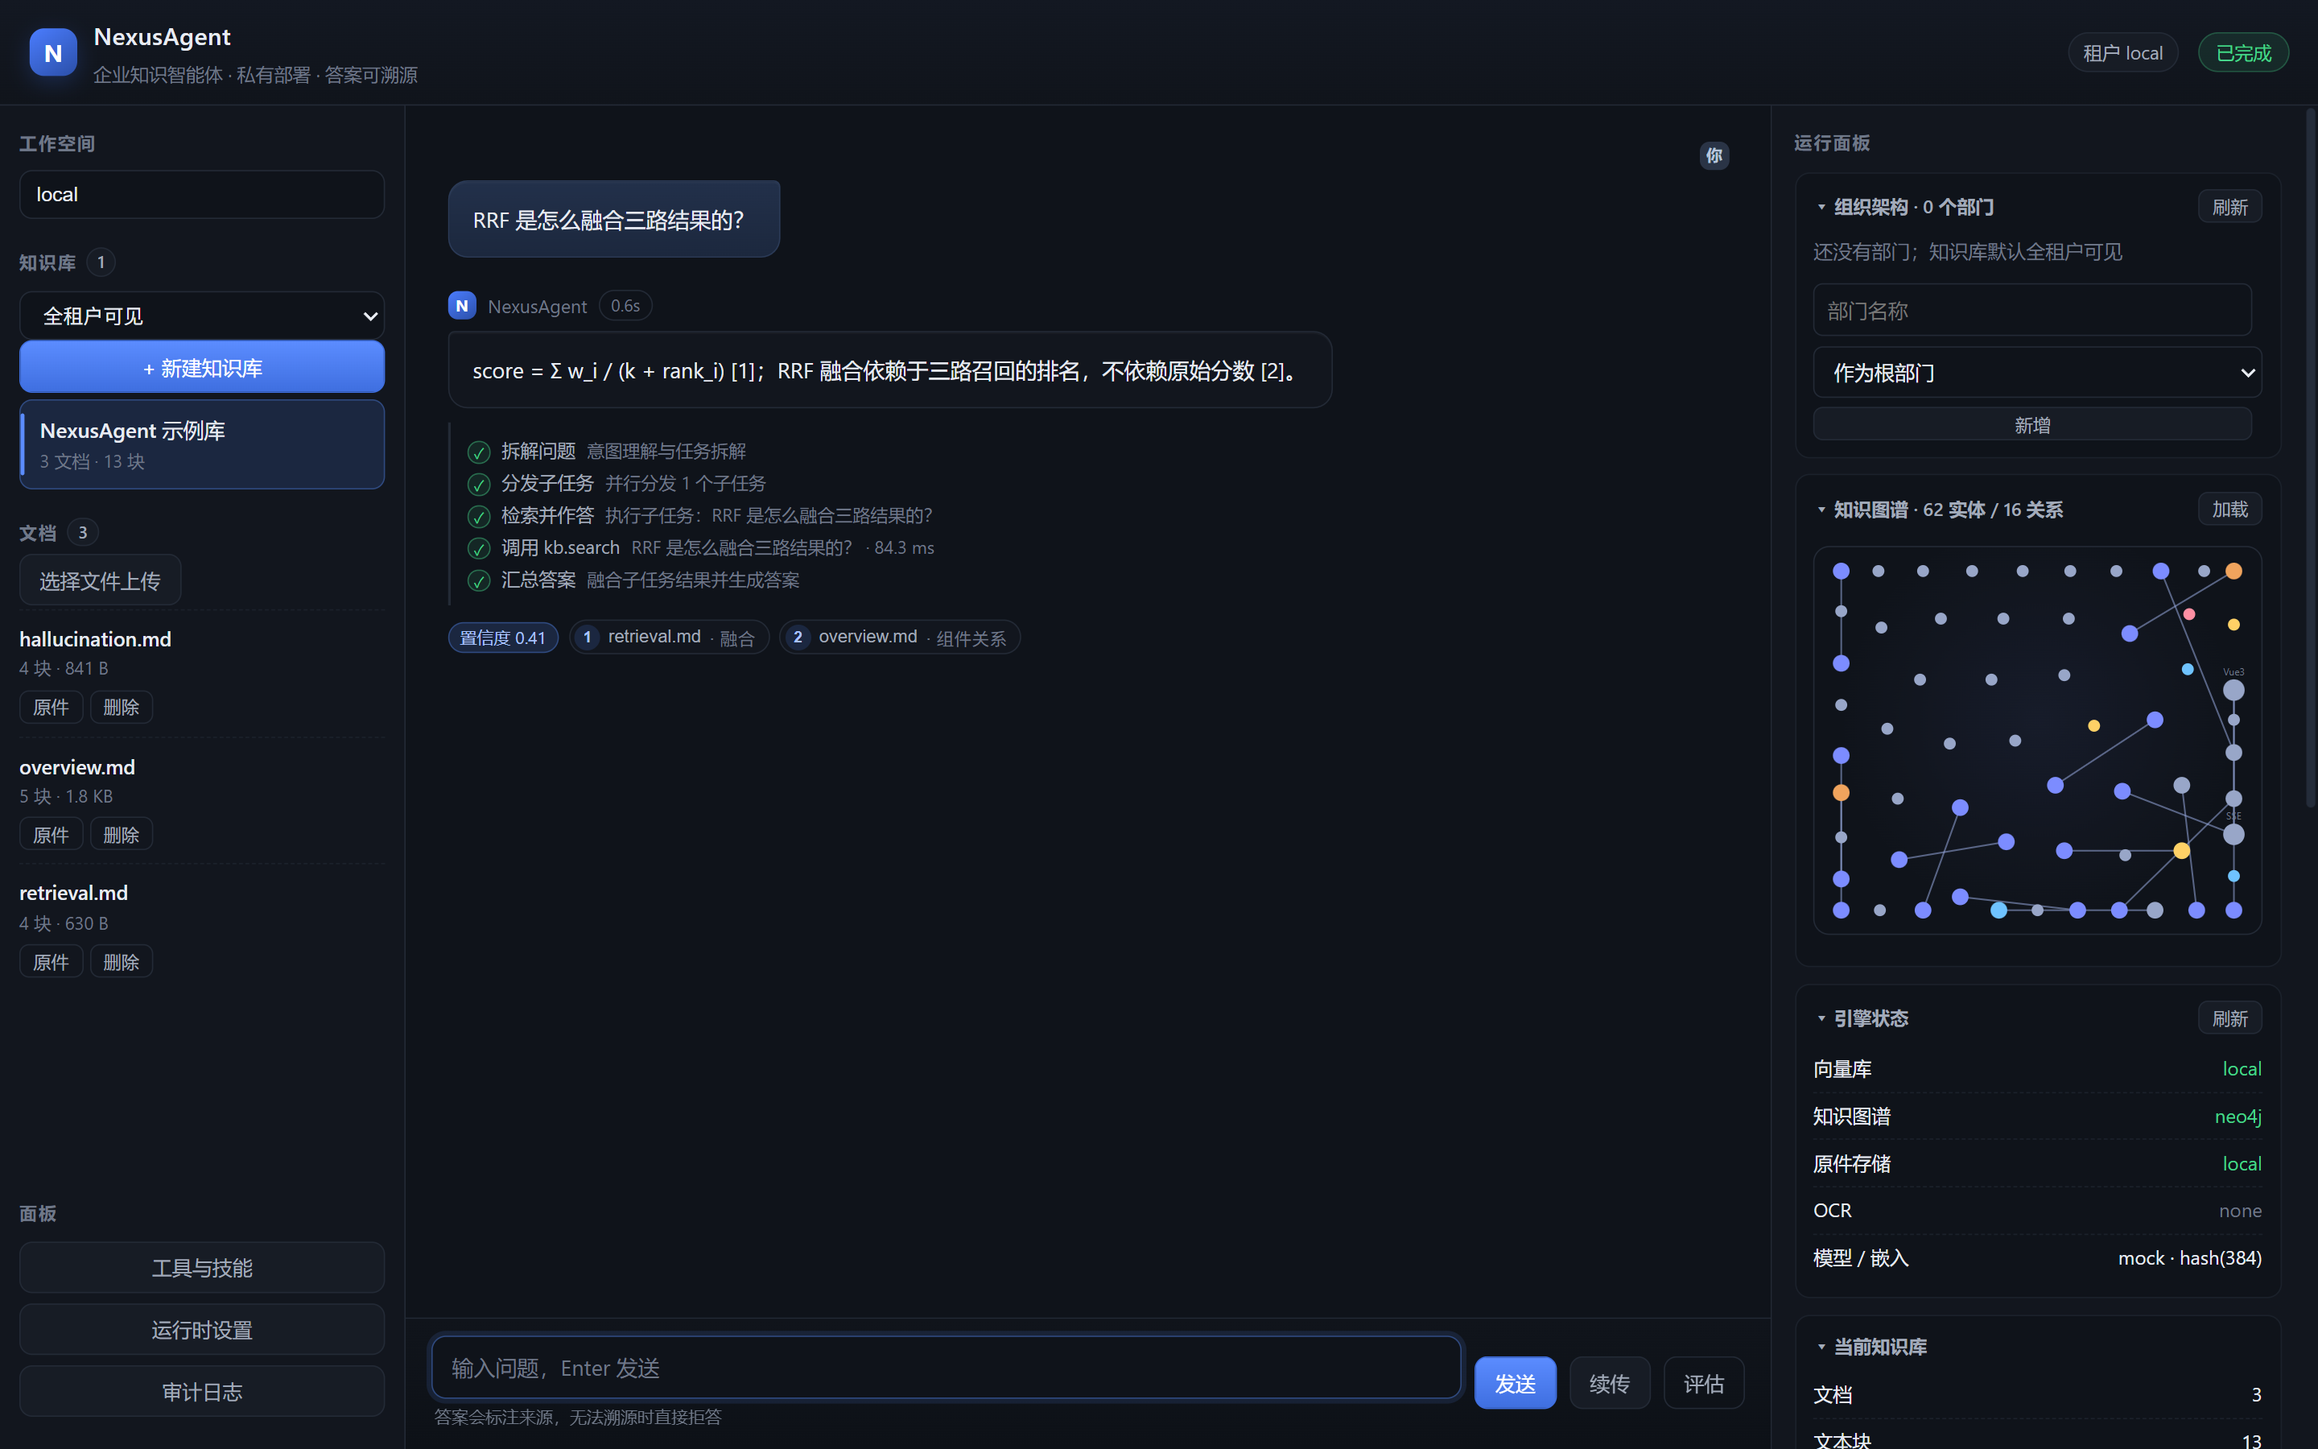
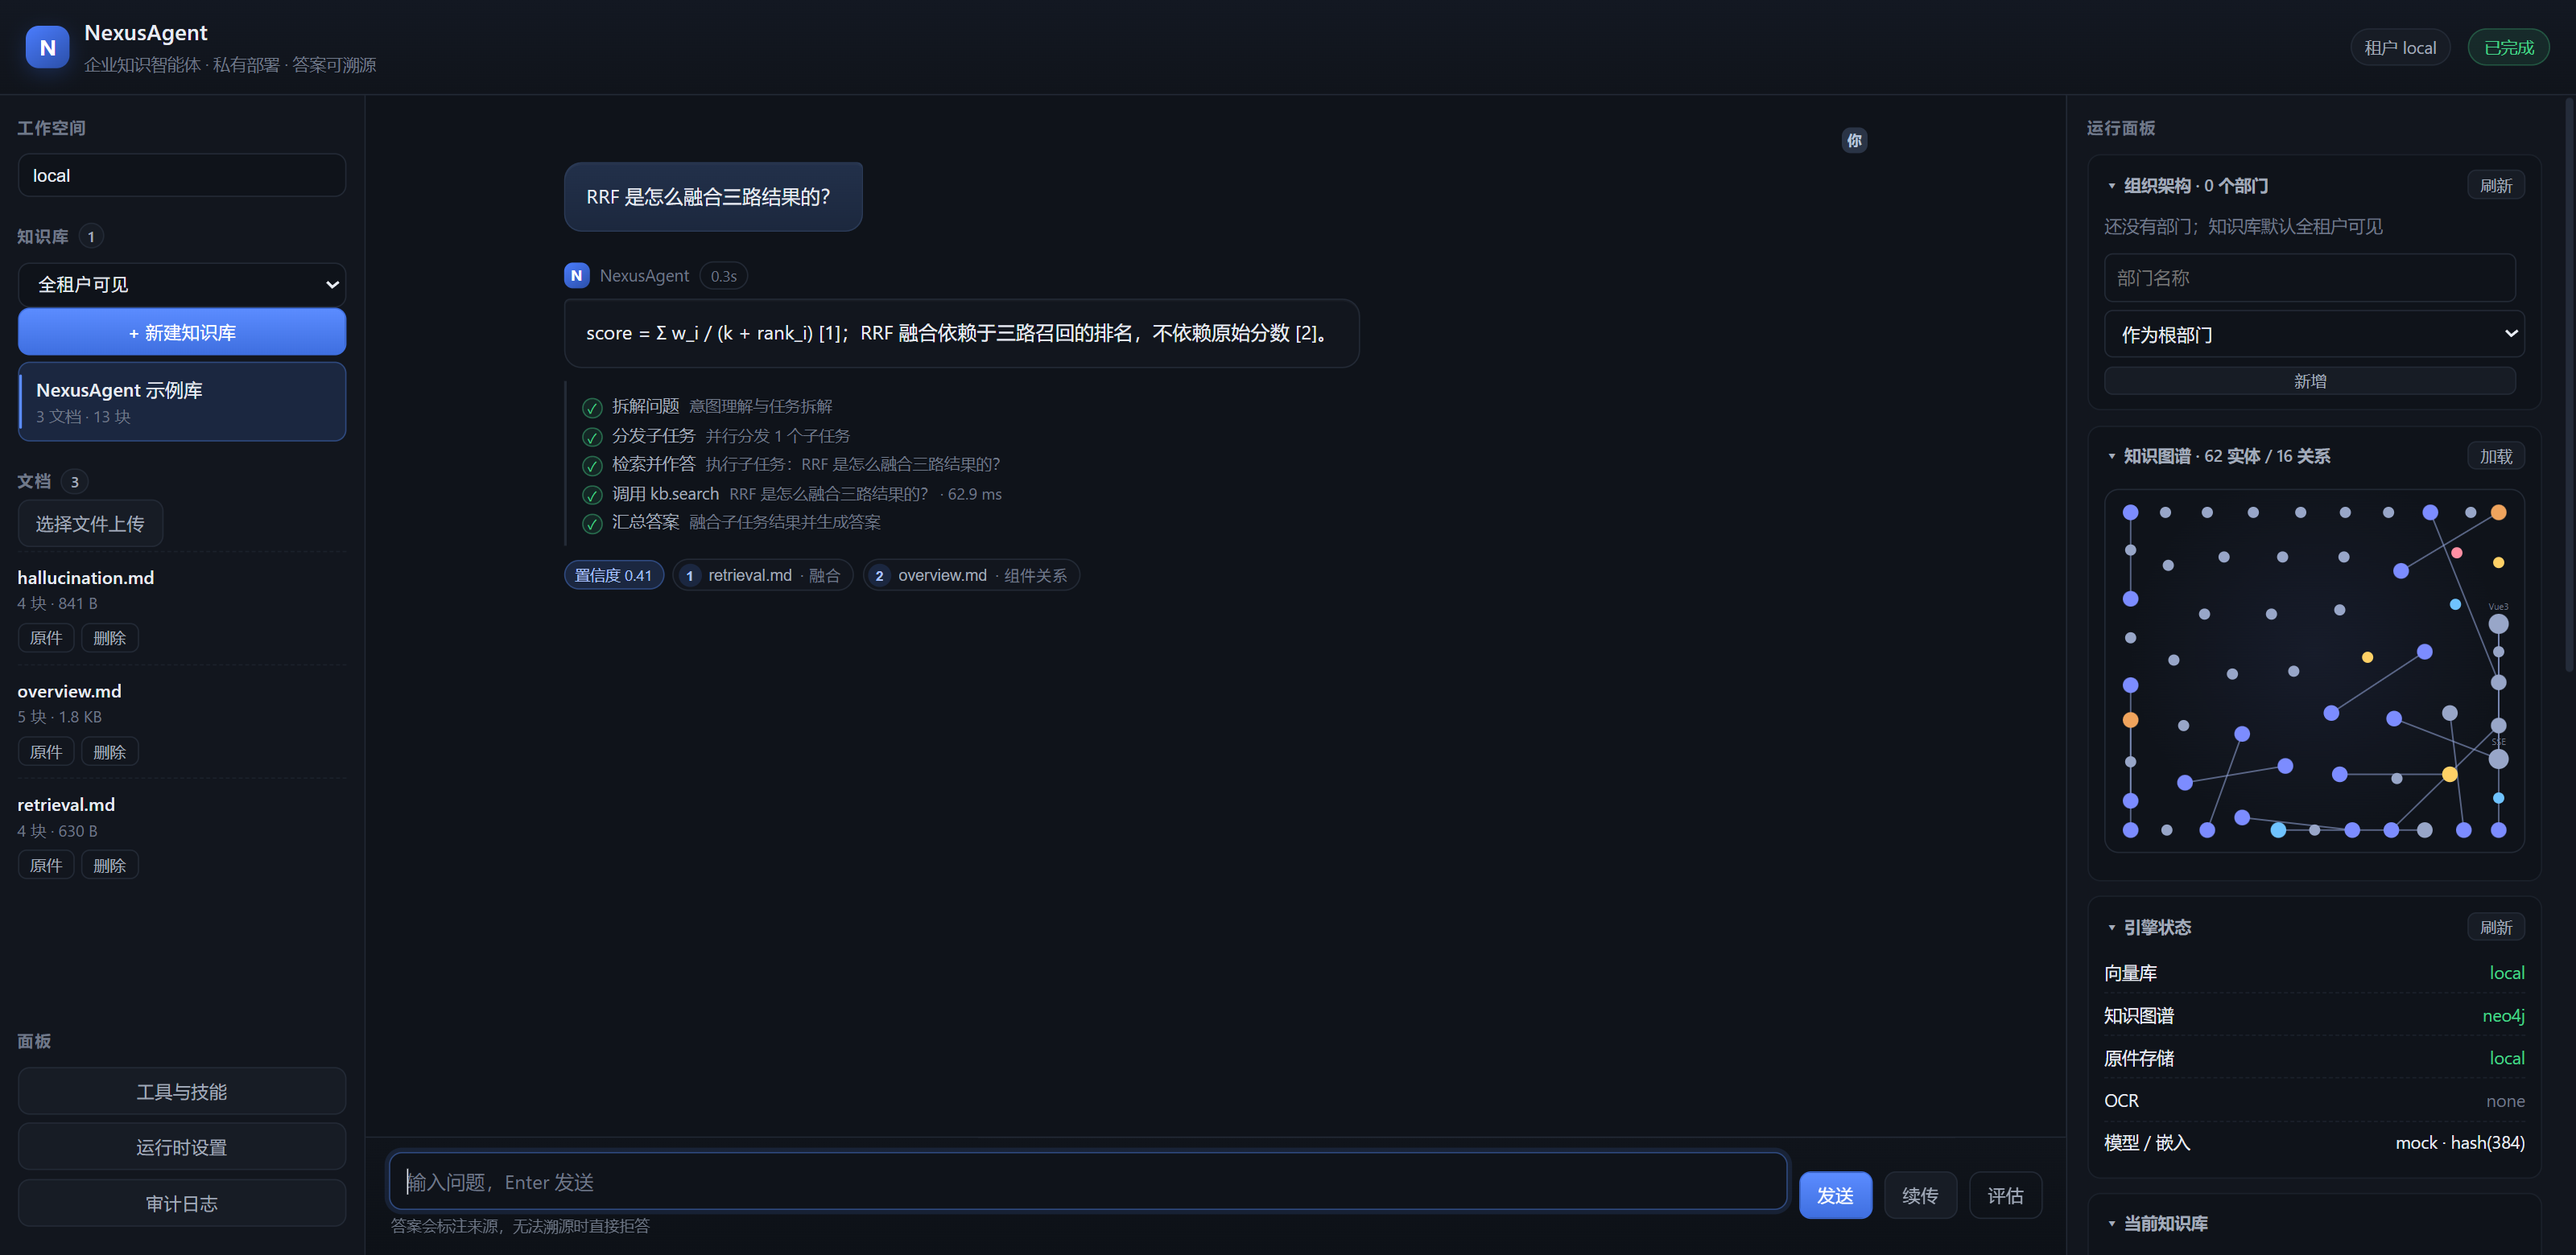
fix: keep the composer in the viewport and render the UI at 90%
- layout: #app no longer overflows, and the sidebar/panel get min-height:0 so
  the grid row is capped by the viewport instead of by the tallest column.
  Before this, a long document list pushed the composer below the fold.
- scale: html gets zoom .9 and #app compensates the dvh, so the same window
  holds a bit more content.
- docs: refreshed ui.png at the new scale.

diff --git a/apps/web/src/style.css b/apps/web/src/style.css
@@ -34,7 +34,18 @@ body {
   -webkit-font-smoothing: antialiased;
 }
 
-#app { height: 100vh; height: 100dvh; display: flex; flex-direction: column; }
+/* 整体按 90% 渲染：同一块屏幕上多放一点内容，字号/间距/图表等比缩小。
+   不支持 zoom 的浏览器走 @supports 之外的分支，保持 100% 不变。 */
+@supports (zoom: 0.9) {
+  html { zoom: 0.9; }
+}
+
+#app { height: 100vh; height: 100dvh; display: flex; flex-direction: column; overflow: hidden; }
+
+@supports (zoom: 0.9) {
+  /* zoom 之后 100dvh 只有视口的 90%，补回来 */
+  #app { height: calc(100dvh / 0.9); }
+}
 
 ::-webkit-scrollbar { width: 9px; height: 9px; }
 ::-webkit-scrollbar-thumb { background: #242c3a; border-radius: 9px; border: 2px solid transparent; background-clip: content-box; }
@@ -109,6 +120,7 @@ body {
 }
 
 .sidebar {
+  min-height: 0;
   border-right: 1px solid var(--line);
   padding: 14px 12px 20px;
   overflow-y: auto;
@@ -409,6 +421,7 @@ body {
 /* ---------- right panel ---------- */
 
 .panel {
+  min-height: 0;
   border-left: 1px solid var(--line);
   padding: 14px 14px 24px;
   overflow-y: auto;
